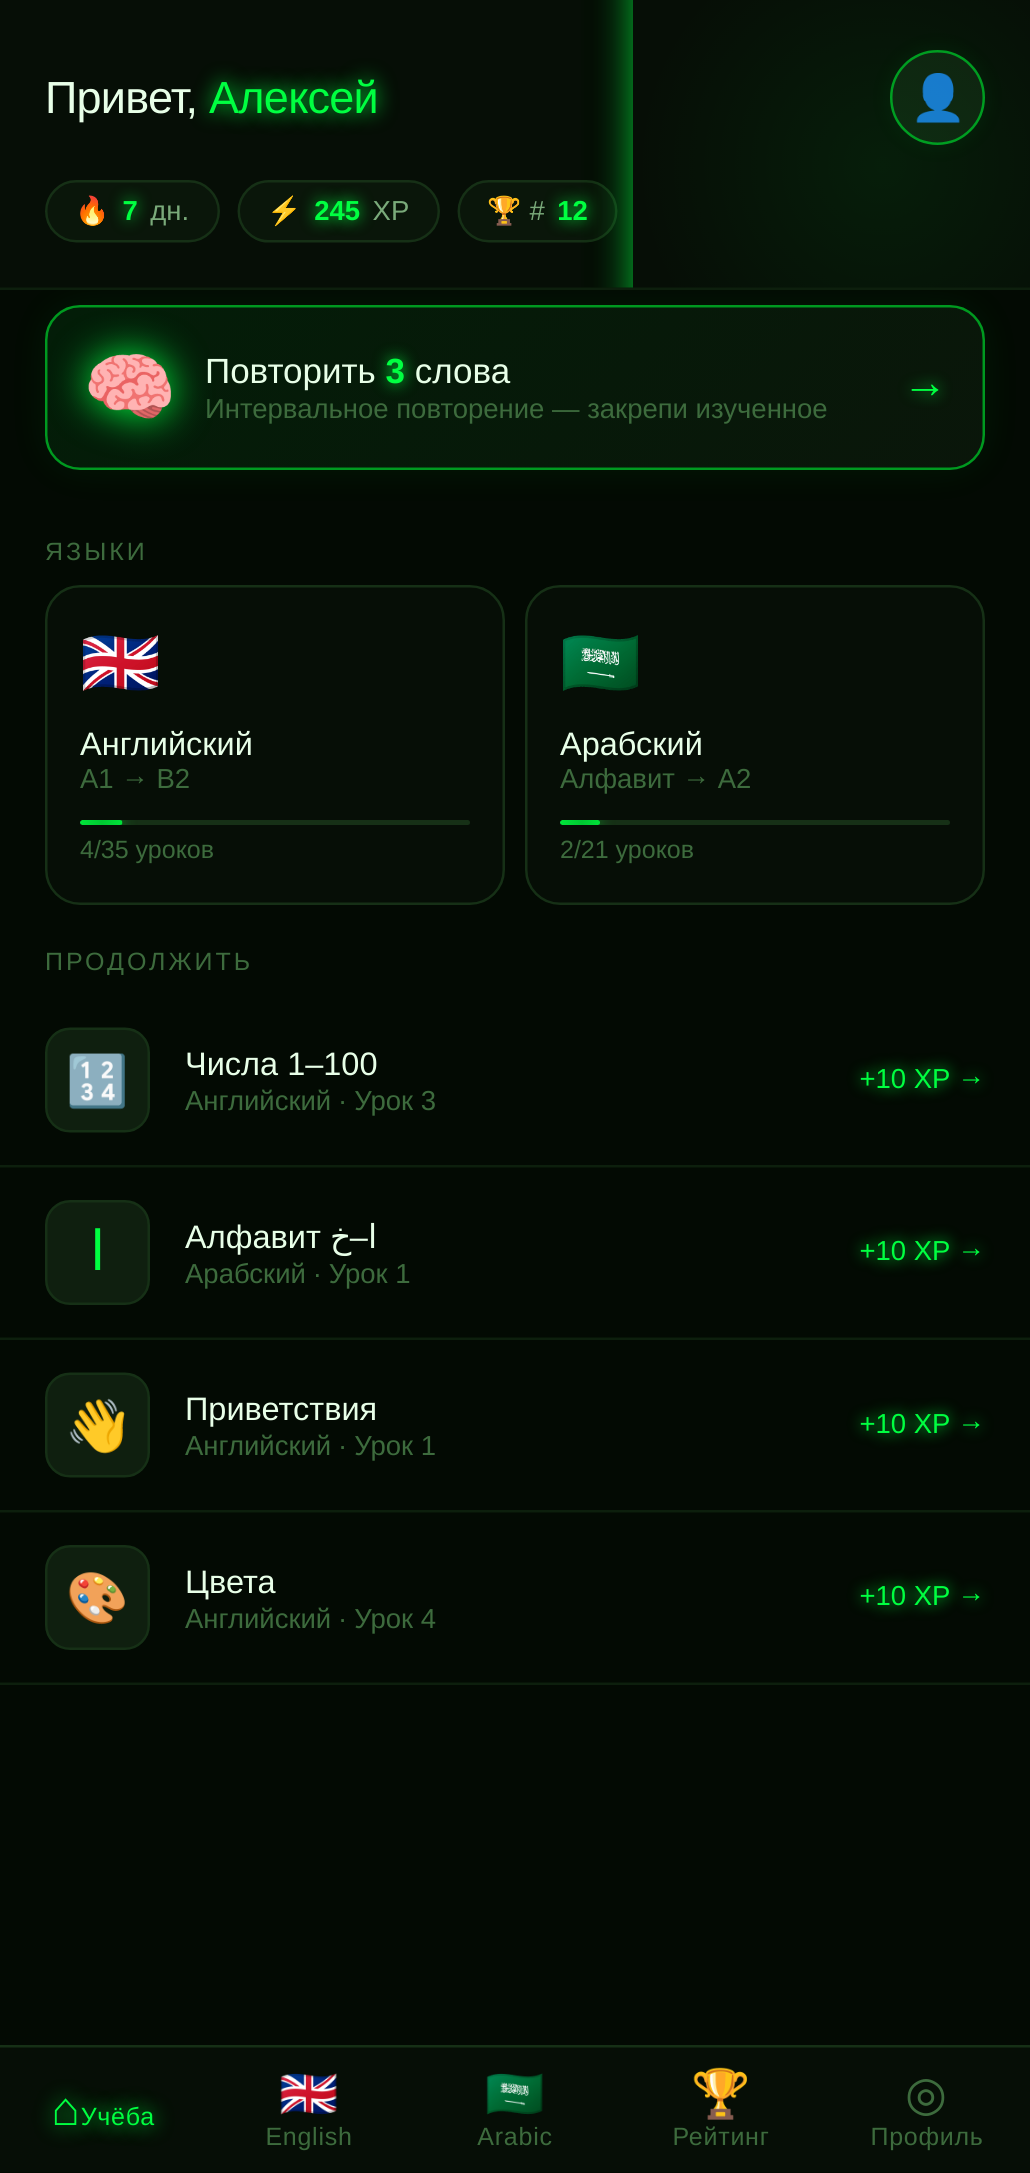
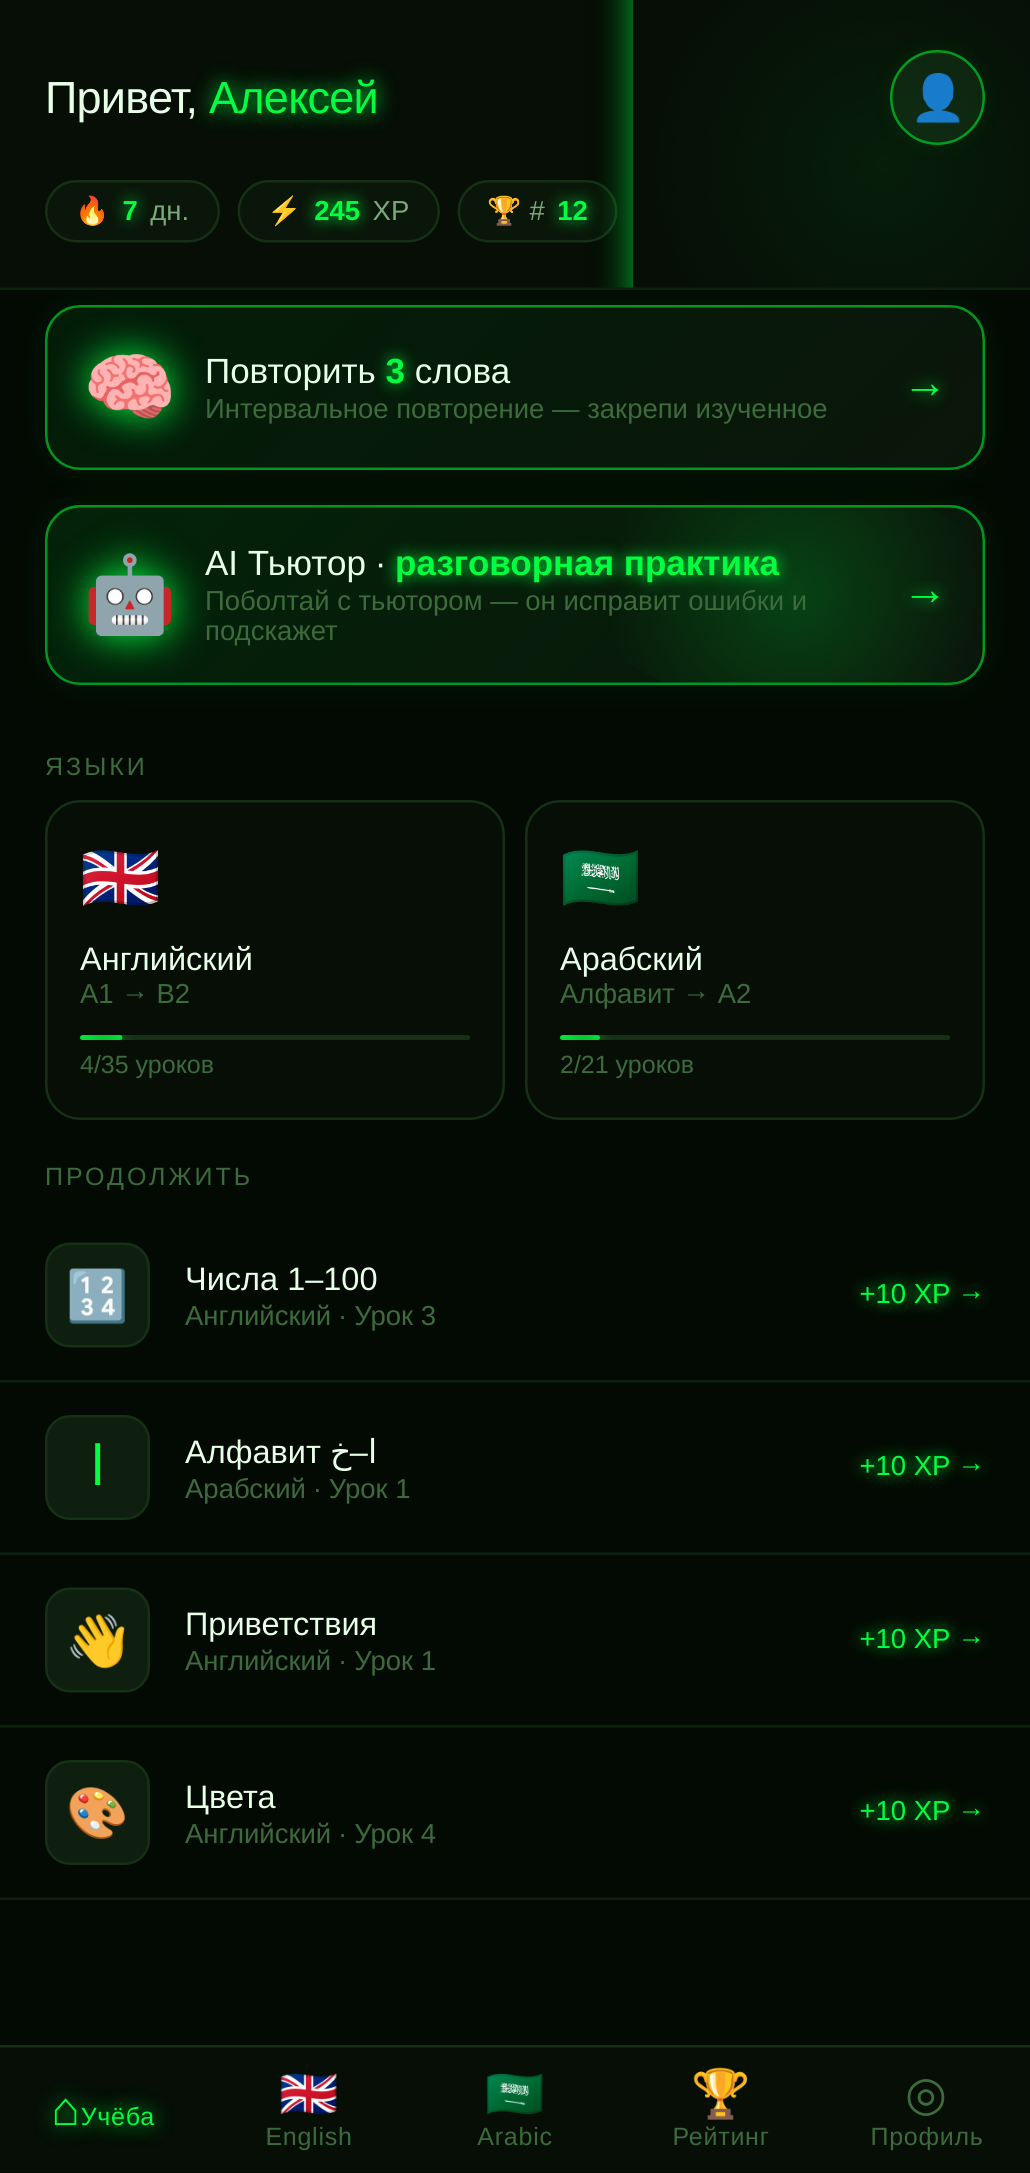
Update Play Store screenshots: include AI tutor card + new screen

diff --git a/www/index.html b/www/index.html
@@ -116,6 +116,50 @@ html,body{height:100%;overflow:hidden;background:#030a03;color:#e8ffe8;font-fami
 .sw input:checked + .sw-t{background:var(--gxx);border-color:var(--gm)}
 .sw input:checked + .sw-t::before{transform:translateX(18px);background:var(--g);box-shadow:0 0 8px var(--g)}
 
+/* ===== AI TUTOR ===== */
+.ai-card{margin:6px 18px 14px;padding:14px;background:linear-gradient(135deg,rgba(0,255,65,.10),var(--bg2));border:1px solid var(--gm);border-radius:var(--r);display:flex;align-items:center;gap:12px;cursor:pointer;transition:all .15s;box-shadow:0 0 18px var(--gxx);position:relative;overflow:hidden}
+.ai-card:active{transform:scale(.99)}
+.ai-card .ai-spark{position:absolute;top:-30%;right:-10%;width:60%;height:160%;background:radial-gradient(circle,rgba(0,255,65,.18),transparent 60%);pointer-events:none;animation:aiSpin 14s linear infinite}
+@keyframes aiSpin{from{transform:rotate(0)}to{transform:rotate(360deg)}}
+.ai-card .ai-ico{font-size:30px;filter:drop-shadow(0 0 8px var(--g));z-index:1}
+.ai-card .ai-info{flex:1;z-index:1}
+.ai-card .ai-h{font-size:14px;color:var(--t0);font-weight:500;margin-bottom:2px}
+.ai-card .ai-h b{color:var(--g);text-shadow:0 0 6px var(--g)}
+.ai-card .ai-s{font-size:11px;color:var(--t2)}
+.ai-card .ai-arr{color:var(--g);font-size:18px;text-shadow:0 0 6px var(--g);z-index:1}
+#s-ai{display:none}
+#s-ai.active{display:flex;flex-direction:column}
+.ai-hdr{display:flex;align-items:center;gap:12px;padding:13px 18px;border-bottom:1px solid var(--b1);background:var(--bg1);flex-shrink:0}
+.ai-hdr .ai-tt{flex:1}
+.ai-hdr .ai-tt h2{font-size:15px;font-weight:500;color:var(--t0);margin:0}
+.ai-hdr .ai-tt p{font-size:10px;color:var(--t2);margin:2px 0 0}
+.ai-hdr .ai-q{font-size:10px;color:var(--g);background:var(--gxx);border:1px solid var(--gm);padding:3px 8px;border-radius:10px;text-shadow:0 0 6px var(--g)}
+.ai-chat{flex:1;overflow-y:auto;padding:14px 16px 8px;display:flex;flex-direction:column;gap:10px;background:radial-gradient(circle at 50% 0%,rgba(0,255,65,.04),transparent 50%)}
+.ai-msg{max-width:82%;padding:10px 13px;border-radius:14px;font-size:13px;line-height:1.4;animation:fadeUp .25s ease both;word-wrap:break-word}
+.ai-msg.u{align-self:flex-end;background:var(--gxx);border:1px solid var(--gm);color:var(--g);border-bottom-right-radius:4px;text-shadow:0 0 4px var(--g)}
+.ai-msg.a{align-self:flex-start;background:var(--bg2);border:1px solid var(--b2);color:var(--t0);border-bottom-left-radius:4px}
+.ai-msg.a .speak{margin-left:6px;background:transparent;border:none;color:var(--g);cursor:pointer;font-size:12px;opacity:.8}
+.ai-msg.a .speak:hover{opacity:1;text-shadow:0 0 6px var(--g)}
+.ai-msg.sys{align-self:center;background:transparent;color:var(--t2);font-size:10px;text-align:center;padding:4px;border:none}
+.ai-typing{align-self:flex-start;display:flex;gap:4px;padding:10px 13px;background:var(--bg2);border:1px solid var(--b2);border-radius:14px;border-bottom-left-radius:4px}
+.ai-typing span{width:6px;height:6px;background:var(--g);border-radius:50%;animation:tBounce 1.2s infinite ease-in-out;box-shadow:0 0 4px var(--g)}
+.ai-typing span:nth-child(2){animation-delay:.15s}
+.ai-typing span:nth-child(3){animation-delay:.3s}
+@keyframes tBounce{0%,80%,100%{transform:scale(.6);opacity:.4}40%{transform:scale(1);opacity:1}}
+.ai-suggest{display:flex;gap:6px;padding:0 16px 6px;flex-wrap:wrap}
+.ai-sugg{font-size:11px;background:var(--bg2);border:1px solid var(--b2);color:var(--t1);padding:7px 11px;border-radius:14px;cursor:pointer;transition:all .15s}
+.ai-sugg:hover{border-color:var(--gm);color:var(--g);background:var(--gxx)}
+.ai-input{display:flex;gap:8px;padding:10px 14px;border-top:1px solid var(--b1);background:var(--bg1)}
+.ai-input textarea{flex:1;background:var(--bg2);border:1px solid var(--b2);border-radius:18px;padding:10px 14px;color:var(--t0);font-size:13px;outline:none;resize:none;font-family:inherit;min-height:38px;max-height:120px;transition:border-color .15s}
+.ai-input textarea:focus{border-color:var(--gm);box-shadow:0 0 0 2px var(--gxx)}
+.ai-send{flex-shrink:0;background:var(--gxx);border:1px solid var(--gm);color:var(--g);width:42px;height:42px;border-radius:50%;cursor:pointer;font-size:18px;text-shadow:0 0 6px var(--g);align-self:flex-end;transition:all .15s}
+.ai-send:active{transform:scale(.94)}
+.ai-send:disabled{opacity:.4;cursor:not-allowed}
+.ai-paywall{margin:14px 16px;padding:18px;background:linear-gradient(135deg,rgba(0,255,65,.08),var(--bg2));border:1px solid var(--gm);border-radius:var(--r);text-align:center}
+.ai-paywall h3{font-size:14px;color:var(--g);margin-bottom:6px;text-shadow:0 0 6px var(--g)}
+.ai-paywall p{font-size:11px;color:var(--t2);margin-bottom:10px;line-height:1.4}
+.ai-paywall .pw-btn{background:var(--g);color:#000;border:none;padding:9px 18px;border-radius:10px;font-size:12px;font-weight:600;cursor:pointer}
+
 /* ===== SRS / DAILY REVIEW ===== */
 .srs-card{margin:6px 18px 14px;padding:14px;background:linear-gradient(135deg,rgba(0,255,65,.08),var(--bg2));border:1px solid var(--gm);border-radius:var(--r);display:flex;align-items:center;gap:12px;cursor:pointer;transition:all .15s;box-shadow:0 0 16px var(--gxx)}
 .srs-card:active{transform:scale(.99)}
@@ -551,6 +595,7 @@ html,body{height:100%;overflow:hidden;background:#030a03;color:#e8ffe8;font-fami
       </div>
     </div>
     <div id="srs-host"></div>
+    <div id="ai-host"></div>
     <div class="sec-lbl">Языки</div>
     <div class="lang-grid">
       <div class="lc" onclick="navTo('lessons-en')">
@@ -630,6 +675,21 @@ html,body{height:100%;overflow:hidden;background:#030a03;color:#e8ffe8;font-fami
     <div class="qh" id="qh">♥ 3</div>
   </div>
   <div class="qbody" id="qbody"></div>
+</div>
+
+<!-- AI TUTOR -->
+<div class="screen" id="s-ai">
+  <div class="ai-hdr">
+    <div class="back" onclick="navTo('home')">←</div>
+    <div class="ai-tt"><h2>🤖 AI Тьютор</h2><p id="ai-sub">Разговорная практика · Llama 3.3 70B</p></div>
+    <div class="ai-q" id="ai-q">5/5</div>
+  </div>
+  <div class="ai-chat" id="ai-chat"></div>
+  <div class="ai-suggest" id="ai-sugg"></div>
+  <div class="ai-input">
+    <textarea id="ai-in" placeholder="Напиши что-нибудь..." rows="1" onkeydown="aiKey(event)" oninput="aiAutosize(this)"></textarea>
+    <button class="ai-send" id="ai-snd" onclick="aiSend()">↑</button>
+  </div>
 </div>
 
 <!-- TIERLIST -->
@@ -1723,6 +1783,129 @@ function startReview(){
   show('lesson');renderQ();
 }
 
+// ===== AI TUTOR (Fireworks) =====
+const FIREWORKS_API_KEY='__FIREWORKS_API_KEY__';
+const AI_PROXY_URL=''; // set to enable serverless proxy instead of direct key
+const AI_MODEL='accounts/fireworks/models/llama-v3p3-70b-instruct';
+const AI_FREE_DAILY=10;
+const AI_KEY='ls_ai_v1';
+let aiState={msgs:[],date:'',used:0};
+(function loadAi(){try{const r=localStorage.getItem(AI_KEY);if(r)Object.assign(aiState,JSON.parse(r));}catch(e){}
+  const today=new Date().toISOString().slice(0,10);
+  if(aiState.date!==today){aiState.date=today;aiState.used=0;}
+})();
+function saveAi(){try{localStorage.setItem(AI_KEY,JSON.stringify(aiState));}catch(e){}}
+function aiHasKey(){return AI_PROXY_URL || (FIREWORKS_API_KEY && FIREWORKS_API_KEY.indexOf('__')!==0);}
+function renderAiCard(){
+  const host=document.getElementById('ai-host');if(!host)return;
+  if(!aiHasKey()){host.innerHTML='';return;}
+  host.innerHTML=`<div class="ai-card" onclick="navTo('ai')">
+    <div class="ai-spark"></div>
+    <div class="ai-ico">🤖</div>
+    <div class="ai-info"><div class="ai-h">AI Тьютор · <b>разговорная практика</b></div><div class="ai-s">Поболтай с тьютором — он исправит ошибки и подскажет</div></div>
+    <div class="ai-arr">→</div>
+  </div>`;
+}
+function aiLangName(){return prefs.primary==='ar'?'арабский':prefs.primary==='both'?'английский (можно менять на арабский по запросу)':'английский';}
+function aiSysPrompt(){
+  const lang=aiLangName();
+  const lvl=prefs.level||'A1';
+  const goal=ONB_GOALS.find(g=>g.id===prefs.goal)?.h||'';
+  return `Ты — дружелюбный преподаватель ${lang} языка для русскоязычного ученика уровня ${lvl}.${goal?' Цель ученика: '+goal+'.':''} Правила:
+1) Веди диалог в основном на изучаемом языке (${lang}), но если ученик что-то не понял — объясняй коротко по-русски.
+2) Уровень ${lvl}: используй простые слова и короткие предложения.
+3) Если ученик пишет с ошибкой — мягко исправь: сначала ответь на смысл, потом ниже одной строкой "📝 Лучше: <правильный вариант>".
+4) Каждый ответ — максимум 3 коротких предложения. Заканчивай вопросом, чтобы ученик мог продолжить.
+5) Никогда не отвечай списком из 10 пунктов — это разговор, а не лекция.`;
+}
+function aiInitChatIfEmpty(){
+  if(aiState.msgs.length>0)return;
+  const greetEn="Hi! I'm your tutor. What would you like to talk about today? 🌟";
+  const greetAr="مرحبا! أنا معلمك. عن ماذا تريد أن نتحدث اليوم؟";
+  const greet=prefs.primary==='ar'?greetAr:greetEn;
+  aiState.msgs.push({r:'a',c:greet});saveAi();
+}
+function aiSuggestions(){
+  const en=['Hello! How are you?','Tell me a joke','Help me order food','Quiz me on colors'];
+  const ar=['مرحبا، كيف حالك؟','علمني عبارات للسفر','اختبرني في الأرقام'];
+  return prefs.primary==='ar'?ar:en;
+}
+function escapeHtml(s){return s.replace(/[&<>"']/g,c=>({'&':'&amp;','<':'&lt;','>':'&gt;','"':'&quot;',"'":'&#39;'}[c]));}
+function renderAi(){
+  if(!aiHasKey()){
+    document.getElementById('ai-chat').innerHTML=`<div class="ai-paywall"><h3>🤖 AI Тьютор отключен</h3><p>API ключ Fireworks не задан в этой сборке.</p></div>`;
+    document.getElementById('ai-sugg').innerHTML='';
+    document.getElementById('ai-q').textContent='—';
+    document.getElementById('ai-snd').disabled=true;
+    return;
+  }
+  aiInitChatIfEmpty();
+  const chat=document.getElementById('ai-chat');
+  chat.innerHTML=aiState.msgs.map(m=>{
+    if(m.r==='sys')return `<div class="ai-msg sys">${escapeHtml(m.c)}</div>`;
+    if(m.r==='u')return `<div class="ai-msg u">${escapeHtml(m.c)}</div>`;
+    const safe=escapeHtml(m.c).replace(/\n/g,'<br>');
+    const lang=prefs.primary==='ar'?'ar':'en';
+    return `<div class="ai-msg a">${safe}<button class="speak" onclick="speak(${JSON.stringify(m.c).replace(/"/g,'&quot;')},'${lang}')" title="Прослушать">🔊</button></div>`;
+  }).join('');
+  // suggestions only when last is assistant
+  const sg=document.getElementById('ai-sugg');
+  if(aiState.msgs.length<3 && aiState.msgs[aiState.msgs.length-1]?.r==='a'){
+    sg.innerHTML=aiSuggestions().map(s=>`<button class="ai-sugg" onclick="aiUseSuggestion('${escapeHtml(s).replace(/'/g,"\\'")}')">${escapeHtml(s)}</button>`).join('');
+  } else sg.innerHTML='';
+  // remaining counter
+  const left=Math.max(0,AI_FREE_DAILY-aiState.used);
+  document.getElementById('ai-q').textContent=left+'/'+AI_FREE_DAILY;
+  setTimeout(()=>{chat.scrollTop=chat.scrollHeight;},20);
+}
+function aiUseSuggestion(s){const ta=document.getElementById('ai-in');ta.value=s;aiSend();}
+function aiAutosize(t){t.style.height='auto';t.style.height=Math.min(120,t.scrollHeight)+'px';}
+function aiKey(e){if(e.key==='Enter'&&!e.shiftKey){e.preventDefault();aiSend();}}
+function aiResetChat(){aiState.msgs=[];saveAi();renderAi();}
+async function aiSend(){
+  const ta=document.getElementById('ai-in');const txt=(ta.value||'').trim();
+  if(!txt)return;
+  if(aiState.used>=AI_FREE_DAILY){
+    aiState.msgs.push({r:'sys',c:'⛔ Дневной лимит 10 сообщений. Завтра он сбросится. (Подписка снимет лимит)'});saveAi();renderAi();return;
+  }
+  aiState.msgs.push({r:'u',c:txt});aiState.used++;saveAi();
+  ta.value='';aiAutosize(ta);renderAi();
+  // typing indicator
+  const chat=document.getElementById('ai-chat');
+  const typ=document.createElement('div');typ.className='ai-typing';typ.innerHTML='<span></span><span></span><span></span>';
+  chat.appendChild(typ);chat.scrollTop=chat.scrollHeight;
+  try{
+    const reply=await aiCall(aiState.msgs);
+    typ.remove();
+    aiState.msgs.push({r:'a',c:reply});saveAi();renderAi();
+  }catch(e){
+    typ.remove();
+    const errMsg='⚠ Не удалось получить ответ: '+(e&&e.message?e.message:'сеть или API недоступен');
+    aiState.msgs.push({r:'sys',c:errMsg});aiState.used=Math.max(0,aiState.used-1);saveAi();renderAi();
+  }
+}
+async function aiCall(msgs){
+  const body={
+    model:AI_MODEL,
+    max_tokens:300,
+    temperature:0.7,
+    messages:[{role:'system',content:aiSysPrompt()},
+      ...msgs.filter(m=>m.r==='u'||m.r==='a').map(m=>({role:m.r==='u'?'user':'assistant',content:m.c}))]
+  };
+  const url=AI_PROXY_URL||'https://api.fireworks.ai/inference/v1/chat/completions';
+  const headers={'Content-Type':'application/json','Accept':'application/json'};
+  if(!AI_PROXY_URL)headers['Authorization']='Bearer '+FIREWORKS_API_KEY;
+  const r=await fetch(url,{method:'POST',headers,body:JSON.stringify(body)});
+  if(!r.ok){
+    let txt='';try{txt=await r.text();}catch(e){}
+    throw new Error('HTTP '+r.status+(txt?' — '+txt.slice(0,140):''));
+  }
+  const j=await r.json();
+  const c=j&&j.choices&&j.choices[0]&&j.choices[0].message&&j.choices[0].message.content;
+  if(!c)throw new Error('Пустой ответ от модели');
+  return c.trim();
+}
+
 // ===== LOCAL NOTIFICATIONS =====
 async function ensureNotifPermission(){
   try{
@@ -1886,7 +2069,8 @@ function navTo(id){
   else if(id==='profile') renderProfile();
   else if(id==='lessons-en') renderLessons('en');
   else if(id==='lessons-ar') renderLessons('ar');
-  else if(id==='home') renderSrsCard();
+  else if(id==='home'){renderSrsCard();renderAiCard();}
+  else if(id==='ai') renderAi();
   show(id);
 }
 

diff --git a/scripts/gen_screenshots.py b/scripts/gen_screenshots.py
@@ -37,6 +37,7 @@ async def goto_and_setup(page):
     # auto-login as guest
     await page.evaluate(
         """() => {
+            window.aiHasKey = () => true;
             user = {name:'Алексей', type:'login', login:'alex'};
             xp = 245; streak = 7; lessons = 6;
             afterAuth();
@@ -80,9 +81,22 @@ async def main():
         await page.evaluate("navTo('lessons-ar')")
         await shoot(page, '07-lessons-ar')
 
-        # 8) Profile scrolled to error analysis
-        await page.evaluate("navTo('profile'); window.scrollTo(0, document.body.scrollHeight/2)")
-        await shoot(page, '08-recommendations')
+        # 8) AI tutor (mock conversation for screenshot)
+        await page.evaluate(
+            """() => {
+                window.aiHasKey = () => true;
+                aiState = {date:new Date().toISOString().slice(0,10), used:3, msgs:[
+                    {r:'a',c:"Hi! I'm your tutor. What would you like to talk about today? 🌟"},
+                    {r:'u',c:"I want to learn travel English"},
+                    {r:'a',c:"Great choice! Let's start at the airport. ✈ What do you say to a check-in agent? Try a sentence."},
+                    {r:'u',c:"I want check in my luggage please"},
+                    {r:'a',c:"Almost perfect! 👍 'I want' should be 'I'd like to' in polite English.\\n📝 Лучше: I'd like to check in my luggage, please.\\nNow tell me — window or aisle seat?"}
+                ]};
+                renderAiCard(); renderAi(); navTo('ai');
+            }"""
+        )
+        await asyncio.sleep(0.5)
+        await shoot(page, '08-ai-tutor')
 
         await browser.close()
 
